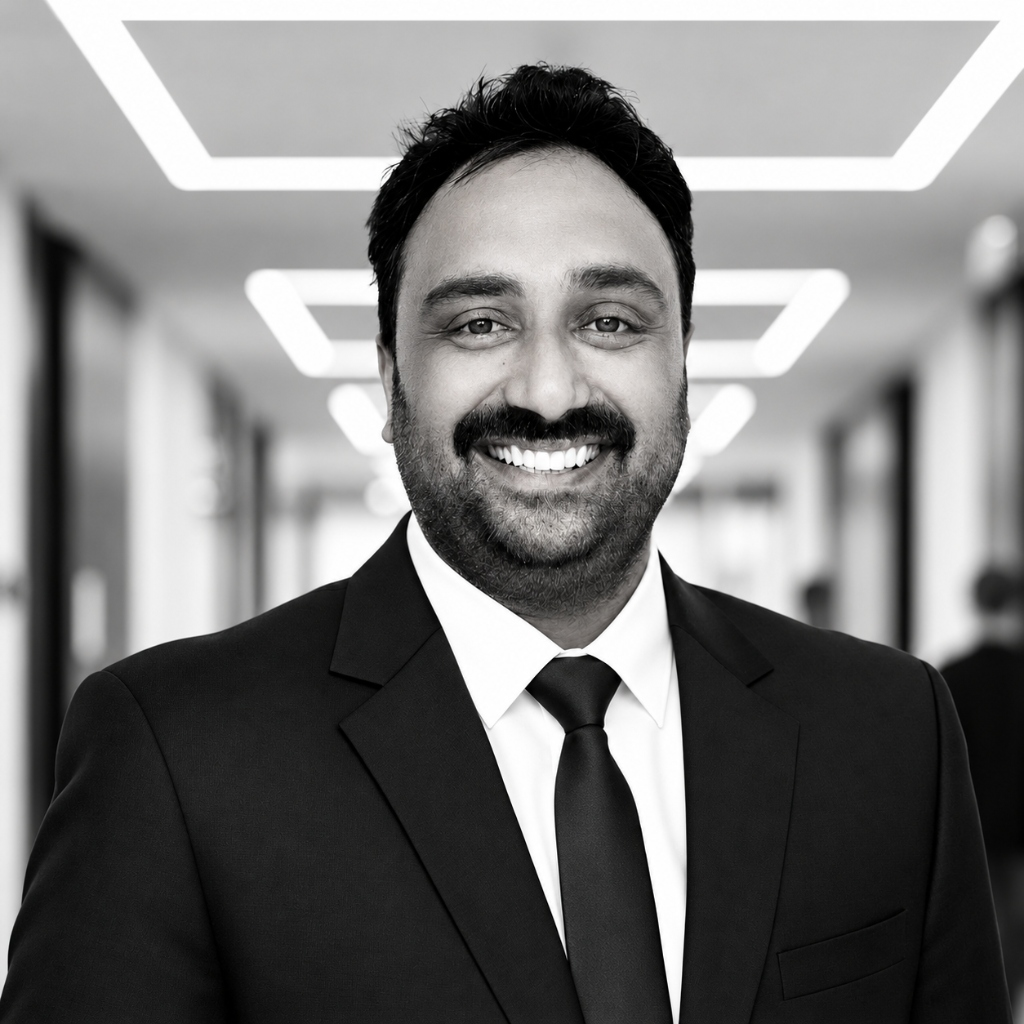
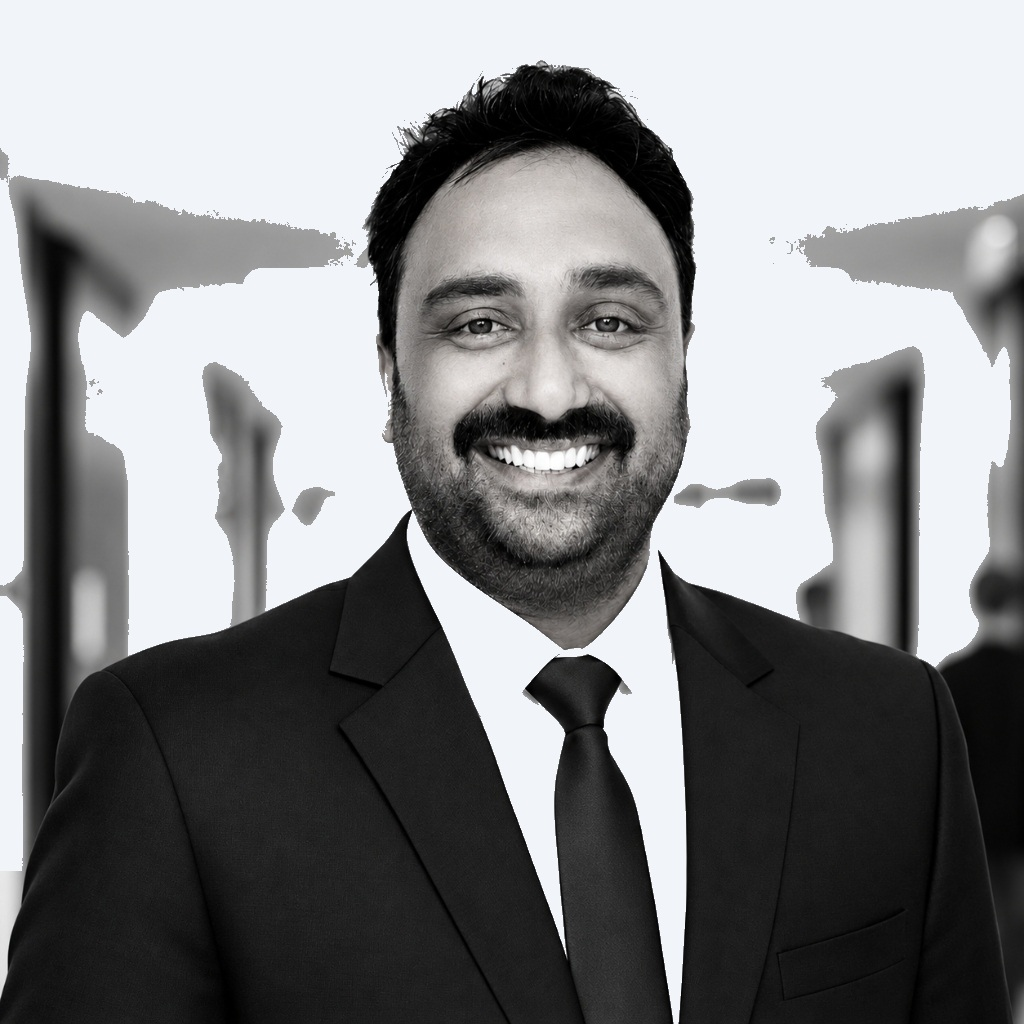
style: remove background of team pictures and set uniform light grey background for photos

diff --git a/fintech-modern.css b/fintech-modern.css
@@ -1278,7 +1278,7 @@ h1, h2, h3, h4, h5, h6,
   height: 380px !important; /* Increased photo wrap height for elegant tall framing */
   overflow: hidden;
   position: relative;
-  background: linear-gradient(180deg, #0A2F63 0%, #031633 100%);
+  background: #F1F5F9 !important; /* Clean light grey studio background for team photos */
   width: 100%;
 }
 

diff --git a/styles.css b/styles.css
@@ -2230,7 +2230,7 @@ a:hover {
   position: relative;
   width: 100%;
   height: 270px;
-  background: linear-gradient(135deg, #0A2F63 0%, #031633 100%);
+  background: #F1F5F9;
   overflow: hidden;
 }
 
